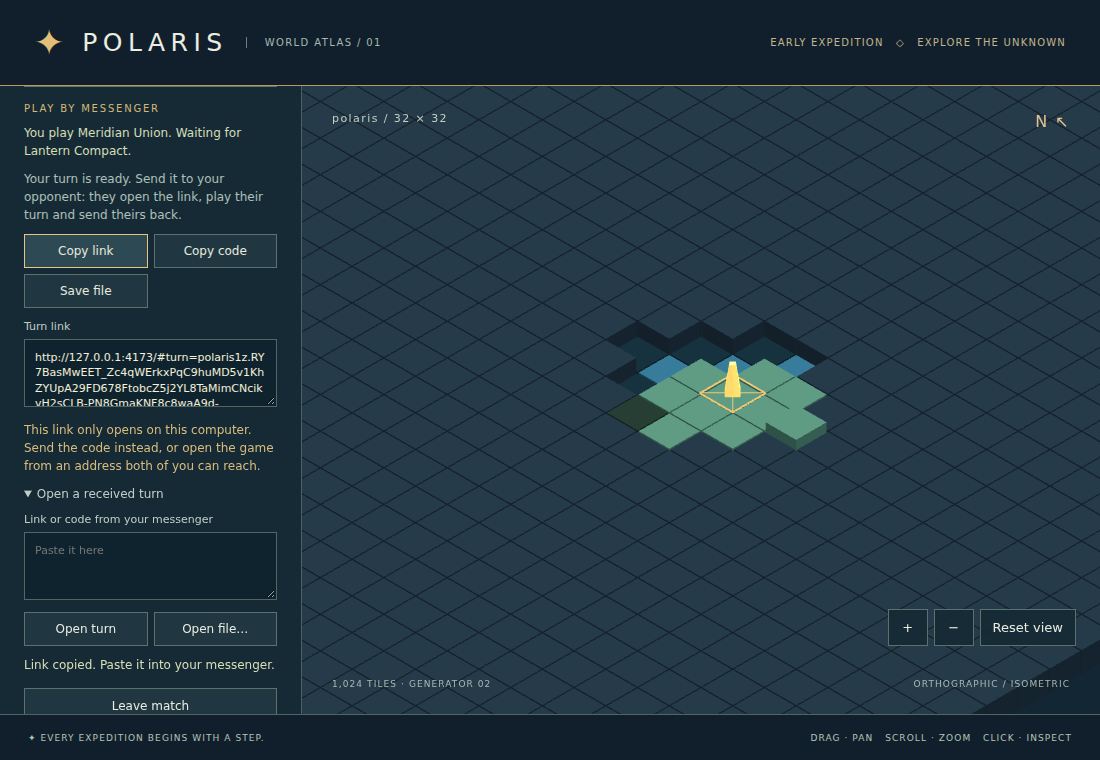
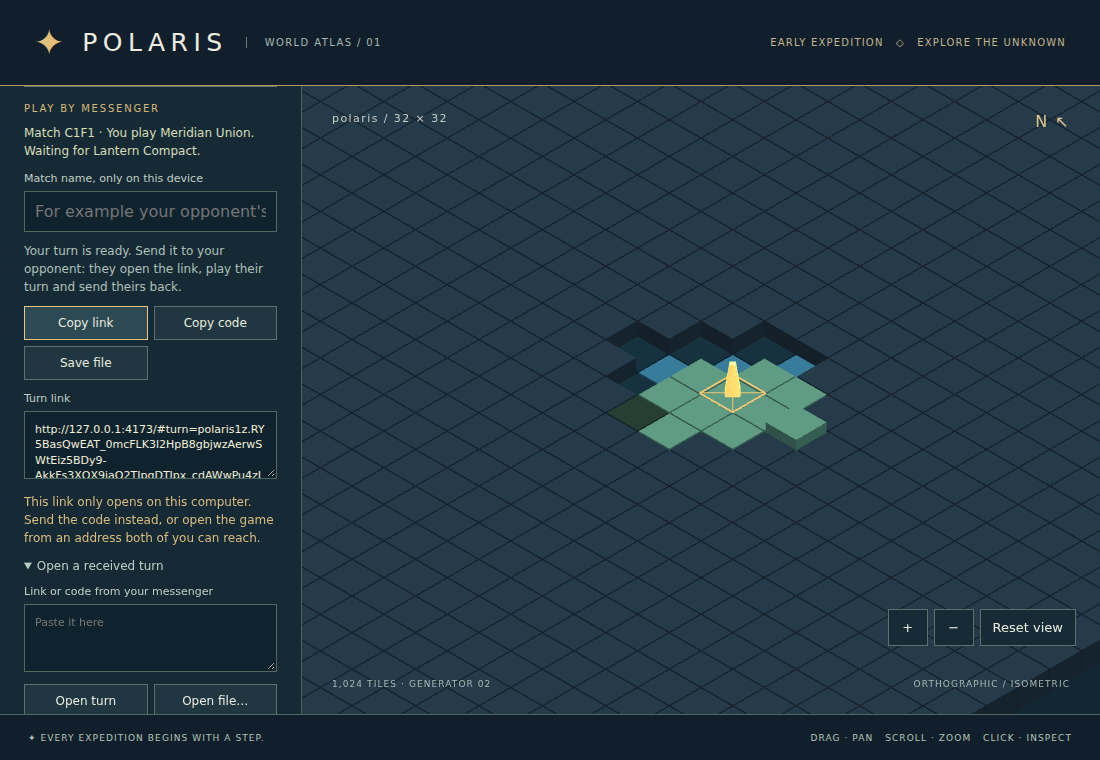
docs: show the messenger match list
Refresh the messenger and mobile captures from validation run 42527914483 (commit d9b6a3d) and add the new list of saved matches.

Changed region(s): [[0.0, 0.1513, 0.2473, 0.9382]]

diff --git a/README.md b/README.md
@@ -55,7 +55,7 @@ is active.
 To try a real phone on the same Wi-Fi, run `npm run dev -- --host` and open the
 printed *Network* URL on the phone.
 
-Mobile captures from [validation run 42523224406](https://github.com/aschauera/polaris-game/actions/runs/42523224406), application commit `0c051b6`, seed `polaris`, Linux Chromium/SwiftShader with touch emulation (portrait 390 × 844; landscape 844 × 390):
+Mobile captures from [validation run 42527914483](https://github.com/aschauera/polaris-game/actions/runs/42527914483), application commit `d9b6a3d`, seed `polaris`, Linux Chromium/SwiftShader with touch emulation (portrait 390 × 844; landscape 844 × 390):
 
 ![Phone portrait atlas: map above the independently scrolling controls](docs/mobile-phone-portrait-atlas.png)
 
@@ -63,7 +63,7 @@ Mobile captures from [validation run 42523224406](https://github.com/aschauera/p
 
 ![Phone landscape atlas using the desktop-style side-by-side layout](docs/mobile-phone-landscape-atlas.png)
 
-These are emulated browser captures, not evidence from physical iOS/Android devices or mobile GPUs. The run passed **85 unit tests** and **19 browser tests**, plus type-check, lint and production build.
+These are emulated browser captures, not evidence from physical iOS/Android devices or mobile GPUs. The run passed **91 unit tests** and **21 browser tests**, plus type-check, lint and production build.
 
 ### Docker and Azure Container Apps
 
@@ -331,7 +331,7 @@ How it behaves:
 
 ### Visual overview
 
-Fresh production-app captures from [validation run 42521598334](https://github.com/aschauera/polaris-game/actions/runs/42521598334), application commit `366d1a8`, seed `polaris`, 32 × 32, Linux Chromium/SwiftShader. The idle panel is 1440 × 900; the two device captures are 1100 × 760 and come from two isolated browser contexts of one test:
+Fresh production-app captures from [validation run 42527914483](https://github.com/aschauera/polaris-game/actions/runs/42527914483), application commit `d9b6a3d`, seed `polaris`, 32 × 32, Linux Chromium/SwiftShader. The idle panel and the match list are 1440 × 900; the two device captures are 1100 × 760 and come from two isolated browser contexts of one test:
 
 ![The atlas with the Play by messenger panel before a match: start a match or open a received turn](docs/messenger-idle.png)
 
@@ -339,7 +339,9 @@ Fresh production-app captures from [validation run 42521598334](https://github.c
 
 ![The guest after opening the link: the match opens as Lantern Compact, and it is their turn](docs/messenger-guest-joined.png)
 
-These are functional UI captures, not concept art or evidence of native-GPU performance. This revision passed **85 unit tests**, **16 browser tests**, type-check, lint and production build in that run.
+![Your matches on one device: the match named Andreas is marked in gold because it is your turn, the other waits for Lantern Compact](docs/messenger-match-list.png)
+
+These are functional UI captures, not concept art or evidence of native-GPU performance. This revision passed **91 unit tests**, **21 browser tests**, type-check, lint and production build in that run.
 
 ## Map inputs and controls
 
